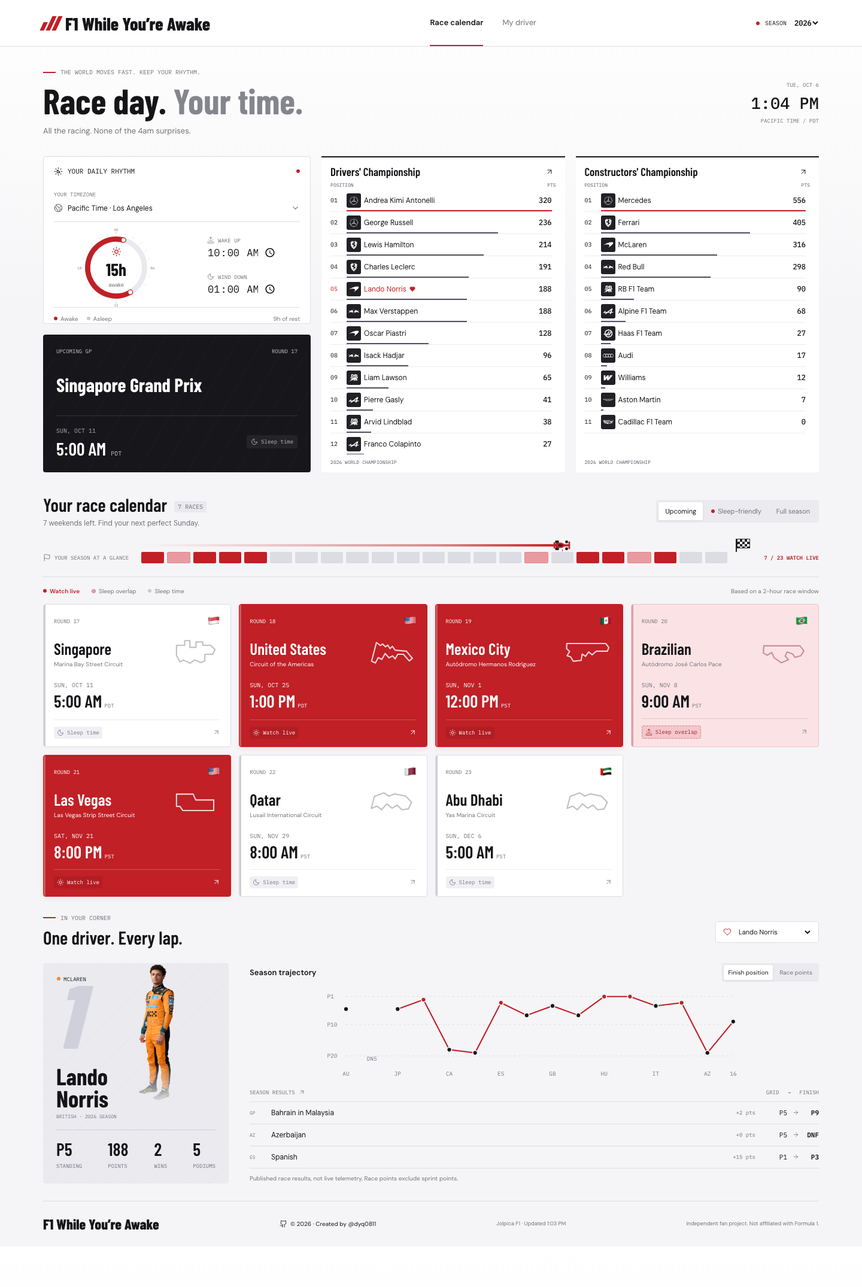
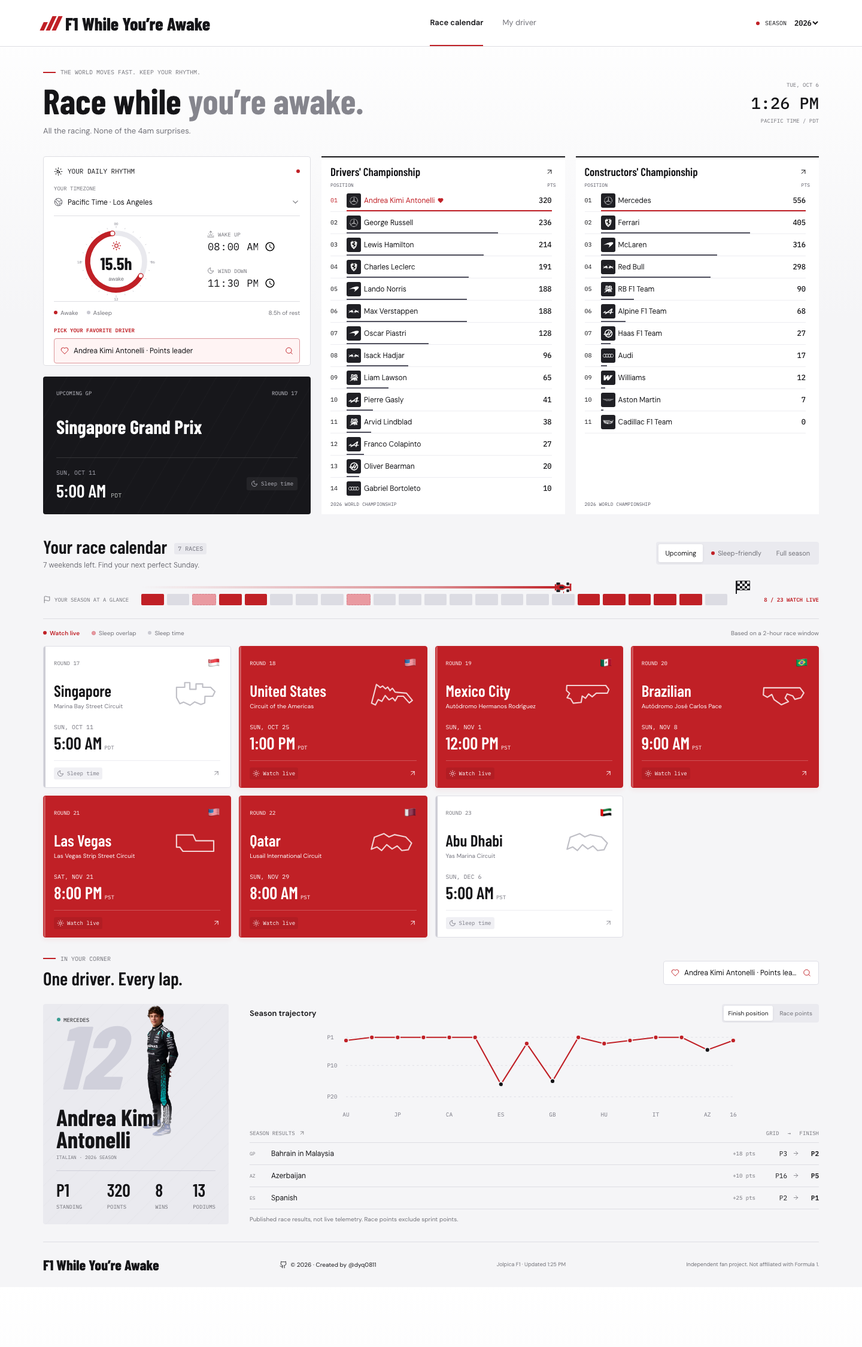
Add files via upload

diff --git a/app.js b/app.js
@@ -3,7 +3,8 @@ const API = 'https://api.jolpi.ca/ergast/f1/';
 const STORE = 'apex-preferences-v1';
 let saved = {};
 try { saved = JSON.parse(localStorage.getItem(STORE) || '{}'); } catch {}
-const state = { season: ['2026', '2025', '2024'].includes(saved.season) ? saved.season : '2026', timezone: saved.timezone || 'America/Los_Angeles', wake: saved.wake || '10:00', sleep: saved.sleep || '01:00', driver: saved.driver || 'norris', filter: 'upcoming', chart: 'position', races: [], standings: [], constructorStandings: [], results: [], source: '', driverToken: 0, seasonToken: 0 };
+const state = { season: ['2026', '2025', '2024'].includes(saved.season) ? saved.season : '2026', timezone: saved.timezone || 'America/Los_Angeles', wake: saved.wake || '08:00', sleep: saved.sleep || '23:30', driver: saved.driver || '', driverChosen: saved.driverChosen === true, filter: 'upcoming', chart: 'position', races: [], drivers: [], standings: [], constructorStandings: [], results: [], source: '', driverToken: 0, seasonToken: 0 };
+let standingsUpdatedAt = 0, refreshingStandings = false;
 const timezoneNames = { 'America/Los_Angeles': 'Pacific Time · Los Angeles', 'America/New_York': 'Eastern Time · New York', 'America/Chicago': 'Central Time · Chicago', 'America/Denver': 'Mountain Time · Denver', 'Europe/London': 'London · United Kingdom', 'Europe/Paris': 'Paris · France', 'Asia/Singapore': 'Singapore', 'Asia/Tokyo': 'Tokyo · Japan', 'Australia/Sydney': 'Sydney · Australia', 'Asia/Kolkata': 'India · Kolkata', 'UTC': 'Coordinated Universal Time' };
 const countries = { Australia: 'AU', China: 'CN', Japan: 'JP', USA: 'US', Canada: 'CA', Monaco: 'MC', Spain: 'ES', Austria: 'AT', UK: 'GB', Belgium: 'BE', Hungary: 'HU', Netherlands: 'NL', Italy: 'IT', Azerbaijan: 'AZ', Singapore: 'SG', Mexico: 'MX', Brazil: 'BR', Qatar: 'QA', UAE: 'AE', Bahrain: 'BH', 'Saudi Arabia': 'SA' };
 const tracks = {
@@ -20,7 +21,7 @@ const resultRow = (race) => { const result = race.Results[0]; return `<button cl
 const icons = () => globalThis.lucide?.createIcons();
 const escapeHTML = (value) => String(value ?? '').replace(/[&<>"']/g, (char) => ({ '&': '&amp;', '<': '&lt;', '>': '&gt;', '"': '&quot;', "'": '&#39;' })[char]);
 const minutes = (value) => { const [hour, minute] = value.split(':').map(Number); return hour * 60 + minute; };
-const persist = () => { try { localStorage.setItem(STORE, JSON.stringify({ season: state.season, timezone: state.timezone, wake: state.wake, sleep: state.sleep, driver: state.driver })); } catch {} };
+const persist = () => { try { localStorage.setItem(STORE, JSON.stringify({ season: state.season, timezone: state.timezone, wake: state.wake, sleep: state.sleep, driver: state.driver, driverChosen: state.driverChosen })); } catch {} };
 const format = (date, options) => new Intl.DateTimeFormat('en-US', { timeZone: state.timezone, ...options }).format(date);
 const raceDate = (race) => new Date(`${race.date}T${race.time || '12:00:00Z'}`);
 const timeText = (date) => format(date, { hour: 'numeric', minute: '2-digit', hour12: true });
@@ -43,7 +44,7 @@ const flag = (country) => { const code = countries[country]; return code ? [...c
 const shortName = (race) => race.raceName.replace(' Grand Prix', '').replace('United States', 'United States').replace('São Paulo', 'São Paulo');
 const track = (race, className) => `<svg class="${className}" viewBox="0 0 210 135" aria-label="${escapeHTML(race.Circuit.circuitName)} circuit illustration" role="img"><path d="${tracks[race.Circuit.circuitId] || tracks.default}"/>${className === 'hero-track' ? `<path class="track-highlight" d="${tracks[race.Circuit.circuitId] || tracks.default}"/>` : ''}</svg>`;
 async function getData(path) {
-  const response = await fetch(`${API}${path}${path.includes('?') ? '&' : '?'}limit=100`, { signal: AbortSignal.timeout(15000) });
+  const response = await fetch(`${API}${path}${path.includes('?') ? '&' : '?'}limit=100`, { signal: AbortSignal.timeout(15000), cache: 'no-store' });
   if (!response.ok) throw new Error(`F1 feed returned ${response.status}`);
   return (await response.json()).MRData;
 }
@@ -186,6 +187,8 @@ async function loadDriver() {
 async function loadSeason() {
   const token = ++state.seasonToken, season = state.season;
   ++state.driverToken;
+  document.querySelectorAll('.driver-search-picker').forEach(closeDriverPicker);
+  document.querySelectorAll('.driver-search-input').forEach((input) => { input.disabled = true; input.value = ''; });
   state.races = []; state.standings = []; state.constructorStandings = []; state.results = [];
   $('#constructor-standings').innerHTML = '<div class="loading">Loading standings...</div>';
   $('#championship-drivers').innerHTML = '<div class="loading">Loading standings...</div>';
@@ -204,10 +207,11 @@ async function loadSeason() {
     if (!drivers.length) { try { const data = await getData(`${season}/drivers.json`); drivers = data.DriverTable.Drivers; } catch {} }
     if (token !== state.seasonToken) return;
     if (drivers.length) {
-      if (!drivers.some((driver) => driver.driverId === state.driver)) state.driver = drivers[0].driverId;
-      $('#driver-select').innerHTML = drivers.map((driver) => `<option value="${escapeHTML(driver.driverId)}">${escapeHTML(driver.givenName)} ${escapeHTML(driver.familyName)}</option>`).join('');
-      $('#driver-select').value = state.driver;
+      state.drivers = drivers;
+      if (!state.driverChosen || !drivers.some((driver) => driver.driverId === state.driver)) state.driver = pointsLeader()?.Driver.driverId || drivers[0].driverId;
+      syncDriverPickers();
     }
+    standingsUpdatedAt = Date.now();
     $('#data-status').textContent = `Jolpica F1 · Updated ${timeText(new Date())}`;
     renderSchedule(); renderChampionships(); persist(); await loadDriver();
   } catch {
@@ -296,19 +300,116 @@ $('#timezone-options').addEventListener('pointerdown', (event) => { if (event.ta
 $('#timezone-options').addEventListener('click', (event) => { const option = event.target.closest('[data-zone]'); if (option) chooseTimezone(option.dataset.zone); });
 $('.timezone-field').addEventListener('click', () => { if ($('#timezone-menu').hidden) { $('#timezone').focus(); $('#timezone-menu').hidden = false; $('#timezone').setAttribute('aria-expanded', 'true'); $('#timezone').select(); renderTimezoneOptions(); } });
 for (const name of ['wake', 'sleep']) {
-  if (!/^([01]\d|2[0-3]):[0-5]\d$/.test(state[name])) state[name] = name === 'wake' ? '10:00' : '01:00';
+  if (!/^([01]\d|2[0-3]):[0-5]\d$/.test(state[name])) state[name] = name === 'wake' ? '08:00' : '23:30';
   $(`#${name}`).value = state[name];
   $(`#${name}`).addEventListener('input', (event) => { if (!event.target.value) return; state[name] = event.target.value; persist(); renderSchedule(); });
 }
 $('#season').addEventListener('change', (event) => { state.season = event.target.value; persist(); loadSeason(); });
-$('#driver-select').addEventListener('change', (event) => { state.driver = event.target.value; persist(); renderChampionships(); loadDriver(); });
+function pointsLeader() { return state.standings.reduce((highest, standing) => !highest || Number(standing.points) > Number(highest.points) ? standing : highest, null); }
+function selectedDriverName() { const driver = state.drivers.find((item) => item.driverId === state.driver); return driver ? `${driver.givenName} ${driver.familyName}` : ''; }
+function driverPickerValue() { const name = selectedDriverName(); return name && !state.driverChosen ? `${name} · Points leader` : name; }
+function closeDriverPicker(picker) {
+  const menu = picker.querySelector('.driver-search-menu');
+  if (menu.matches(':popover-open')) menu.hidePopover();
+  menu.hidden = true;
+  const input = picker.querySelector('.driver-search-input');
+  input.setAttribute('aria-expanded', 'false'); input.removeAttribute('aria-activedescendant'); input.value = driverPickerValue();
+}
+function syncDriverPickers() {
+  document.querySelectorAll('.driver-search-picker').forEach((picker) => {
+    const input = picker.querySelector('.driver-search-input');
+    input.disabled = !state.drivers.length;
+    if (picker.querySelector('.driver-search-menu').hidden) input.value = driverPickerValue();
+  });
+}
+function chooseDriver(id) {
+  if (id === 'leader') { state.driverChosen = false; state.driver = pointsLeader()?.Driver.driverId || state.drivers[0]?.driverId || ''; }
+  else { if (!state.drivers.some((driver) => driver.driverId === id)) return; state.driver = id; state.driverChosen = true; }
+  document.querySelectorAll('.driver-search-picker').forEach(closeDriverPicker);
+  syncDriverPickers(); persist(); renderChampionships(); loadDriver();
+}
+document.querySelectorAll('.driver-search-picker').forEach((picker) => {
+  const input = picker.querySelector('.driver-search-input'), menu = picker.querySelector('.driver-search-menu'), list = picker.querySelector('[role="listbox"]');
+  let matches = [], activeIndex = -1;
+  function renderOptions(query = '') {
+    const terms = query.toLowerCase().normalize('NFD').replace(/[\u0300-\u036f]/g, '').trim().split(/\s+/).filter(Boolean);
+    const driverChoices = state.drivers.map((driver) => { const standing = state.standings.find((item) => item.Driver.driverId === driver.driverId); return { id: driver.driverId, name: `${driver.givenName} ${driver.familyName}`, detail: `${standing?.Constructors?.[0]?.name || driver.nationality}${standing ? ` · ${standing.points} pts` : ''}`, code: driver.code || '' }; });
+    const choices = [{ id: 'leader', name: 'Follow points leader', detail: pointsLeader() ? `${selectedLeaderName()} · Automatic` : 'Automatic when standings are available', code: 'default auto' }, ...driverChoices];
+    matches = choices.filter((choice) => { const text = `${choice.name} ${choice.detail} ${choice.code}`.toLowerCase().normalize('NFD').replace(/[\u0300-\u036f]/g, ''); return terms.every((term) => text.includes(term)); });
+    activeIndex = -1; input.removeAttribute('aria-activedescendant');
+    list.innerHTML = matches.map((choice, index) => `<li id="${input.id}-option-${index}" role="option" data-driver="${escapeHTML(choice.id)}" aria-selected="${choice.id === 'leader' ? !state.driverChosen : state.driverChosen && choice.id === state.driver}"><span>${escapeHTML(choice.name)}</span><small>${escapeHTML(choice.detail)}</small></li>`).join('');
+    picker.querySelector('.driver-search-status').textContent = matches.length ? `${matches.length} choices` : 'No matching drivers';
+  }
+  function positionMenu() {
+    if (menu.hidden) return;
+    const viewport = window.visualViewport;
+    const viewportLeft = viewport?.offsetLeft || 0, viewportTop = viewport?.offsetTop || 0;
+    const viewportWidth = viewport?.width || window.innerWidth, viewportHeight = viewport?.height || window.innerHeight;
+    const anchor = picker.querySelector('.driver-search-field').getBoundingClientRect();
+    const width = Math.min(Math.max(anchor.width, 280), viewportWidth - 24);
+    menu.style.width = `${width}px`;
+    menu.style.left = `${Math.max(viewportLeft + 12, Math.min(anchor.left, viewportLeft + viewportWidth - width - 12))}px`;
+    const above = anchor.top - viewportTop - 12, below = viewportTop + viewportHeight - anchor.bottom - 12;
+    const opensAbove = below < 292 && above > below;
+    const available = Math.max(0, (opensAbove ? above : below) - 6);
+    const footerHeight = picker.querySelector('.driver-search-status').getBoundingClientRect().height;
+    list.style.maxHeight = `${Math.max(0, Math.min(260, available - footerHeight - 2))}px`;
+    const height = menu.getBoundingClientRect().height;
+    menu.style.top = `${Math.max(viewportTop + 12, Math.min(opensAbove ? anchor.top - height - 6 : anchor.bottom + 6, viewportTop + viewportHeight - height - 12))}px`;
+  }
+  function open() {
+    if (input.disabled) return;
+    menu.hidden = false; if (!menu.matches(':popover-open')) menu.showPopover();
+    input.setAttribute('aria-expanded', 'true'); input.select(); renderOptions(); positionMenu();
+  }
+  input.addEventListener('focus', open);
+  input.addEventListener('click', () => { if (menu.hidden) open(); });
+  input.addEventListener('input', () => { menu.hidden = false; if (!menu.matches(':popover-open')) menu.showPopover(); input.setAttribute('aria-expanded', 'true'); renderOptions(input.value); positionMenu(); });
+  input.addEventListener('blur', () => closeDriverPicker(picker));
+  input.addEventListener('keydown', (event) => {
+    if (event.key === 'Escape' || event.key === 'Tab') { closeDriverPicker(picker); return; }
+    if (event.key === 'ArrowDown' || event.key === 'ArrowUp') {
+      event.preventDefault(); if (menu.hidden) open(); if (!matches.length) return;
+      activeIndex = event.key === 'ArrowDown' ? (activeIndex + 1) % matches.length : activeIndex <= 0 ? matches.length - 1 : activeIndex - 1;
+      list.querySelectorAll('[role="option"]').forEach((option, index) => option.classList.toggle('highlighted', index === activeIndex));
+      const option = list.children[activeIndex]; input.setAttribute('aria-activedescendant', option.id); option.scrollIntoView({ block: 'nearest' });
+    }
+    if (event.key === 'Enter' && !menu.hidden) { event.preventDefault(); if (activeIndex >= 0) chooseDriver(matches[activeIndex].id); else if (matches.length === 1) chooseDriver(matches[0].id); }
+  });
+  list.addEventListener('pointerdown', (event) => { if (event.target.closest('[data-driver]')) event.preventDefault(); });
+  list.addEventListener('click', (event) => { const option = event.target.closest('[data-driver]'); if (option) chooseDriver(option.dataset.driver); });
+  window.addEventListener('resize', positionMenu);
+  window.addEventListener('scroll', positionMenu, true);
+  window.visualViewport?.addEventListener('resize', positionMenu);
+  window.visualViewport?.addEventListener('scroll', positionMenu);
+});
+function selectedLeaderName() { const driver = pointsLeader()?.Driver; return driver ? `${driver.givenName} ${driver.familyName}` : ''; }
+async function refreshStandings() {
+  if (refreshingStandings || document.hidden || !state.races.length) return;
+  const season = state.season, token = state.seasonToken;
+  refreshingStandings = true;
+  try {
+    const [drivers, constructors] = await Promise.all([getData(`${season}/driverStandings.json`), getData(`${season}/constructorStandings.json`).catch(() => null)]);
+    if (token !== state.seasonToken || season !== state.season) return;
+    const standings = drivers.StandingsTable.StandingsLists[0]?.DriverStandings;
+    if (!standings?.length) return;
+    state.standings = standings; state.drivers = standings.map((standing) => standing.Driver);
+    const teams = constructors?.StandingsTable.StandingsLists[0]?.ConstructorStandings;
+    if (teams) state.constructorStandings = teams;
+    if (!state.driverChosen) state.driver = pointsLeader().Driver.driverId;
+    standingsUpdatedAt = Date.now(); syncDriverPickers(); persist(); renderChampionships(); await loadDriver();
+    $('#data-status').textContent = `Jolpica F1 · Updated ${timeText(new Date())}`;
+  } catch {} finally { refreshingStandings = false; }
+}
+setInterval(refreshStandings, 5 * 60 * 1000);
+document.addEventListener('visibilitychange', () => { if (!document.hidden && Date.now() - standingsUpdatedAt >= 5 * 60 * 1000) refreshStandings(); });
 document.querySelectorAll('[data-standings]').forEach((button) => button.addEventListener('click', () => showStandings(button.dataset.standings)));
 document.addEventListener('error', (event) => {
   if (event.target.matches?.('.team-logo img')) { event.target.hidden = true; event.target.nextElementSibling.hidden = false; }
 }, true);
 $('#all-results').addEventListener('click', () => {
   $('#dialog-kicker').textContent = `DRIVER RESULTS / ${state.season}`;
-  $('#dialog-title').textContent = $('#driver-select').selectedOptions[0]?.textContent || 'Season results';
+  $('#dialog-title').textContent = selectedDriverName() || 'Season results';
   $('#dialog-content').innerHTML = `<p class="dialog-note">Grand Prix results · Race points exclude sprint points</p>${state.results.length ? state.results.slice().reverse().map(resultRow).join('') : '<div class="empty">No published results available.</div>'}`;
   $('#race-dialog').showModal(); icons();
 });

diff --git a/index.html b/index.html
@@ -19,12 +19,13 @@
     <div class="season-select"><span class="status-dot"></span><label for="season">SEASON</label><select id="season"><option>2026</option><option>2025</option><option>2024</option></select></div>
   </header>
   <main>
-    <section class="page-heading"><div><div class="eyebrow"><span class="red-line"></span> THE WORLD MOVES FAST. KEEP YOUR RHYTHM.</div><h1>Race day. <span>Your time.</span></h1><p>All the racing. None of the 4am surprises.</p></div><div class="local-clock"><span id="today"></span><strong id="clock">--:--</strong><span id="clock-zone">PACIFIC TIME</span></div></section>
+    <section class="page-heading"><div><div class="eyebrow"><span class="red-line"></span> THE WORLD MOVES FAST. KEEP YOUR RHYTHM.</div><h1>Race while <span>you&rsquo;re awake.</span></h1><p>All the racing. None of the 4am surprises.</p></div><div class="local-clock"><span id="today"></span><strong id="clock">--:--</strong><span id="clock-zone">PACIFIC TIME</span></div></section>
     <section class="dashboard-top">
       <aside class="rhythm"><div class="section-kicker"><span><i data-lucide="sun-moon"></i> YOUR DAILY RHYTHM</span><span class="tiny-dot"></span></div>
         <div class="timezone-picker"><label class="field-label" for="timezone">YOUR TIMEZONE</label><div class="timezone-field"><i data-lucide="globe-2"></i><input id="timezone" type="text" role="combobox" aria-label="Timezone" aria-autocomplete="list" aria-expanded="false" aria-controls="timezone-options" autocomplete="off" spellcheck="false" placeholder="Search city or timezone"><i data-lucide="chevron-down"></i></div><div id="timezone-menu" class="timezone-menu" hidden><ul id="timezone-options" role="listbox" aria-label="Timezones"></ul><div id="timezone-search-status" class="timezone-search-status" role="status"></div></div></div>
-        <div class="rhythm-body"><div class="dial-wrap"><svg id="sleep-dial" viewBox="0 0 200 200" role="img" aria-label="24-hour waking and sleep schedule"></svg><div class="dial-center"><i data-lucide="sun"></i><strong id="awake-hours">15h</strong><span>awake</span></div></div><div class="sleep-inputs"><label for="wake"><span><i data-lucide="sunrise"></i> WAKE UP</span><input id="wake" type="time" value="10:00" required></label><label for="sleep"><span><i data-lucide="moon"></i> WIND DOWN</span><input id="sleep" type="time" value="01:00" required></label></div></div>
-        <div class="rhythm-bottom"><span class="legend-dot awake"></span> Awake <span class="legend-dot asleep"></span> Asleep <span id="sleep-hours">9h of rest</span></div><p class="schedule-error" id="schedule-error" role="status"></p>
+        <div class="rhythm-body"><div class="dial-wrap"><svg id="sleep-dial" viewBox="0 0 200 200" role="img" aria-label="24-hour waking and sleep schedule"></svg><div class="dial-center"><i data-lucide="sun"></i><strong id="awake-hours">15.5h</strong><span>awake</span></div></div><div class="sleep-inputs"><label for="wake"><span><i data-lucide="sunrise"></i> WAKE UP</span><input id="wake" type="time" value="08:00" required></label><label for="sleep"><span><i data-lucide="moon"></i> WIND DOWN</span><input id="sleep" type="time" value="23:30" required></label></div></div>
+        <div class="rhythm-bottom"><span class="legend-dot awake"></span> Awake <span class="legend-dot asleep"></span> Asleep <span id="sleep-hours">8.5h of rest</span></div><p class="schedule-error" id="schedule-error" role="status"></p>
+        <div class="rhythm-driver driver-search-picker"><label class="field-label" for="rhythm-driver-select">PICK YOUR FAVORITE DRIVER</label><div class="driver-search-field"><i data-lucide="heart"></i><input id="rhythm-driver-select" class="driver-search-input" type="text" role="combobox" aria-label="Pick your favorite driver" aria-autocomplete="list" aria-expanded="false" aria-controls="rhythm-driver-options" placeholder="Search drivers or teams" autocomplete="off" spellcheck="false" disabled><i data-lucide="search"></i></div><div class="driver-search-menu" popover="manual" hidden><ul id="rhythm-driver-options" role="listbox" aria-label="Favorite driver choices"></ul><div class="driver-search-status" role="status"></div></div></div>
       </aside>
       <div class="next-race" id="next-race"><div class="loading">Finding your next lights out...</div></div>
       <section class="championship-board drivers-board" aria-labelledby="drivers-title"><div class="championship-heading"><h2 id="drivers-title">Drivers' Championship</h2><button class="icon-button" data-standings="drivers" title="Full drivers' standings" aria-label="View full drivers' standings"><i data-lucide="arrow-up-right"></i></button></div><div id="championship-drivers"><div class="loading">Loading standings...</div></div></section>
@@ -35,7 +36,7 @@
       <div class="calendar-legend"><span><b class="legend-dot awake"></b> Watch live</span><span><b class="legend-dot stretch"></b> Sleep overlap</span><span><b class="legend-dot asleep"></b> Sleep time</span><small>Based on a 2-hour race window</small></div>
       <div class="race-grid" id="race-grid" aria-live="polite"><div class="loading">Loading the grid...</div></div>
     </section>
-    <section id="driver" class="driver-section"><div class="section-heading"><div><div class="eyebrow"><span class="red-line"></span> IN YOUR CORNER</div><h2>One driver. Every lap.</h2></div><div class="driver-picker"><i data-lucide="heart"></i><select id="driver-select" aria-label="Favorite driver"><option value="norris">Lando Norris</option></select></div></div>
+    <section id="driver" class="driver-section"><div class="section-heading"><div><div class="eyebrow"><span class="red-line"></span> IN YOUR CORNER</div><h2>One driver. Every lap.</h2></div><div class="driver-picker driver-search-picker"><div class="driver-search-field"><i data-lucide="heart"></i><input id="driver-select" class="driver-search-input" type="text" role="combobox" aria-label="Favorite driver" aria-autocomplete="list" aria-expanded="false" aria-controls="driver-options" placeholder="Search drivers or teams" autocomplete="off" spellcheck="false" disabled><i data-lucide="search"></i></div><div class="driver-search-menu" popover="manual" hidden><ul id="driver-options" role="listbox" aria-label="Favorite driver choices"></ul><div class="driver-search-status" role="status"></div></div></div></div>
       <div class="driver-layout"><div id="driver-profile" class="driver-profile"><div class="loading">Loading your driver...</div></div><div class="driver-performance"><div class="performance-heading"><h3>Season trajectory</h3><div class="segmented compact" aria-label="Chart metric"><button data-chart="position" class="selected" aria-pressed="true">Finish position</button><button data-chart="points" aria-pressed="false">Race points</button></div></div><div id="driver-chart" class="driver-chart"></div><div class="results-heading"><button id="all-results" title="View all race results">SEASON RESULTS <i data-lucide="arrow-up-right"></i></button><span>GRID <span class="result-arrow">→</span> FINISH</span></div><div id="driver-results"></div><p class="data-note">Published race results, not live telemetry. Race points exclude sprint points.</p></div></div>
     </section>
     <footer><a class="brand small" href="#"><span class="brand-name">F1 While You&rsquo;re Awake</span></a><a class="footer-github" href="https://github.com/dyq0811" target="_blank" rel="noopener noreferrer"><i data-lucide="github"></i>&copy; 2026 &middot; Created by @dyq0811</a><span id="data-status" role="status">Connecting to Jolpica F1...</span><span>Independent fan project. Not affiliated with Formula 1.</span></footer>

diff --git a/modern.css b/modern.css
@@ -34,7 +34,7 @@ nav a.active { font-weight: 600; }
 .local-clock strong { font-size: 27px; }
 .status-dot, .tiny-dot { background: var(--red); }
 
-.dashboard-top { grid-template-columns: minmax(300px, 1.1fr) minmax(0, 1fr) minmax(0, 1fr); grid-template-rows: 280px 230px; grid-template-areas: "rhythm drivers constructors" "race drivers constructors"; gap: 18px; }
+.dashboard-top { grid-template-columns: minmax(300px, 1.1fr) minmax(0, 1fr) minmax(0, 1fr); grid-template-rows: 350px 230px; grid-template-areas: "rhythm drivers constructors" "race drivers constructors"; gap: 18px; }
 .dashboard-top .next-race { grid-area: race; min-height: 230px; padding: 22px; }
 .dashboard-top .next-race .kicker { justify-content: space-between; font-size: 9px; }
 .dashboard-top .next-race h2 { font-size: 32px; line-height: 1.1; max-width: 100%; margin: 14px 0; }
@@ -42,6 +42,7 @@ nav a.active { font-weight: 600; }
 .dashboard-top .next-recommend { max-width: none; }
 .dashboard-top .next-time strong { font-size: 30px; }
 .dashboard-top .rhythm { grid-area: rhythm; padding: 17px; }
+.dashboard-top .rhythm .section-kicker { margin-bottom: 10px; }
 .dashboard-top .dial-wrap { width: 132px; height: 132px; }
 .dashboard-top .rhythm-body { gap: 10px; justify-content: space-around; }
 .championship-board { padding: 12px 15px; background: #fff; border-top: 2px solid var(--ink); min-width: 0; flex: 1; }
@@ -120,6 +121,24 @@ nav a.active { font-weight: 600; }
 .dial-center svg { color: var(--red); }
 .dial-center strong { font-weight: 700; }
 .rhythm-bottom { font-size: 10px; }
+.rhythm-driver { margin-top: 12px; }
+.rhythm-driver > .field-label { color: var(--red); font-weight: 600; }
+.driver-search-picker { position: relative; }
+.driver-search-field { display: flex; align-items: center; gap: 8px; width: 100%; min-width: 0; }
+.rhythm-driver .driver-search-field { margin-top: 6px; padding: 10px; background: #fff4f4; border: 1px solid #dc969a; border-radius: 4px; }
+.driver-search-field > svg { width: 14px; height: 14px; flex-shrink: 0; color: var(--red); }
+.driver-search-input { width: 100%; min-width: 0; padding: 2px 0; border: 0; background: transparent; font-size: 12px; text-overflow: ellipsis; }
+.driver-search-input:disabled { color: var(--muted); cursor: wait; }
+.driver-section .driver-picker { width: 260px; max-width: 45%; }
+.driver-search-menu { position: fixed; inset: auto; margin: 0; z-index: 25; background: #fff; border: 1px solid var(--line); border-radius: 4px; box-shadow: 0 12px 28px #15151818; }
+.driver-search-menu[hidden] { display: none; }
+.driver-search-menu ul { list-style: none; padding: 4px; margin: 0; max-height: 260px; overflow-y: auto; overscroll-behavior: contain; }
+.driver-search-menu li { display: flex; flex-direction: column; gap: 4px; padding: 10px; border-radius: 3px; cursor: pointer; }
+.driver-search-menu li:hover, .driver-search-menu li.highlighted, .driver-search-menu li[aria-selected="true"] { background: #fff0f0; }
+.driver-search-menu li > span { font-size: 12px; color: var(--ink); overflow-wrap: anywhere; }
+.driver-search-menu li[aria-selected="true"] > span { color: var(--red); font-weight: 600; }
+.driver-search-menu li small { font: 9px var(--mono); color: var(--muted); overflow-wrap: anywhere; }
+.driver-search-status { padding: 9px 12px; border-top: 1px solid var(--line); font: 9px var(--mono); color: var(--muted); }
 #sleep-dial > circle:first-child { stroke: #e9e9ee; }
 #sleep-dial > circle:nth-child(2) { stroke: var(--red); }
 #sleep-dial > circle:nth-child(n+3) { stroke: var(--red); fill: #fff; }

diff --git a/README.md b/README.md
@@ -2,6 +2,14 @@
 
 Formula 1, mapped to your day. F1 While You're Awake helps you find races that fit your timezone and sleep schedule, follow your favorite driver, and track both world championships.
 
+Visit **[f1-awake.0811dingy.workers.dev](https://f1-awake.0811dingy.workers.dev)** in your browser.
+
+## Why I built this
+
+F1's timezone switch is handy, but it doesn't know I'm a night owl. I still had to check every race to answer the real question: **will I actually be awake for this?** I'm here for lights out, not a 4am alarm.
+
+I'm also more driver-loyal than team-loyal. My favorites can change garages; I'm still cheering for them. So I built a race calendar around my sleep schedule, with a driver view that follows the person, not the paint job.
+
 ## Preview
 
 ![F1 While You're Awake dashboard showing sleep settings, the next Grand Prix, championship standings, a timezone-aware race calendar, and driver results](preview.png)
@@ -17,7 +25,9 @@ Preview captured on October 6, 2026. Race schedules and standings change as the 
 - Weekend details for practice, qualifying, sprints, and the Grand Prix when published.
 - A season overview with a race-car progress marker and fading red trail.
 - Scrollable Drivers' and Constructors' Championship standings with team logos and points.
-- Favorite-driver selection, championship position, wins, podiums, and season charts.
+- Searchable favorite-driver pickers in the daily rhythm panel and driver view, with name, team, and driver-code search plus keyboard navigation.
+- New visitors start with the championship leader by points; selecting a driver saves that favorite instead of automatically switching back to the leader.
+- Driver championship position, wins, podiums, and season charts.
 - Full Grand Prix results and published lap-by-lap position traces.
 - Responsive desktop/mobile layout and preferences saved in your browser.
 - Season selection for 2024, 2025, and 2026.
@@ -32,9 +42,7 @@ Preview captured on October 6, 2026. Race schedules and standings change as the 
 
 Grand Prix estimates use a two-hour window. Actual races can last longer because of delays or red flags. Weekend sessions use their usual scheduled duration. Unconfirmed start times are shown as **Time TBC** rather than being classified as confirmed watchable races.
 
-## Visit
-
-Visit **[f1-awake.0811dingy.workers.dev](https://f1-awake.0811dingy.workers.dev)** in your browser.
+## Settings
 
 An internet connection is required for F1 data, team logos, driver portraits, fonts, and icons.
 
@@ -43,12 +51,16 @@ An internet connection is required for F1 data, team logos, driver portraits, fo
 | Setting | Default |
 | --- | --- |
 | Timezone | Pacific Time / `America/Los_Angeles` |
-| Wake up | 10:00 AM |
-| Wind down | 1:00 AM |
-| Favorite driver | Lando Norris |
+| Wake up | 8:00 AM |
+| Wind down | 11:30 PM |
+| Favorite driver | Driver with the most championship points in the selected season |
 | Season | 2026 |
 
 Settings are saved in browser local storage and are specific to each visitor and site origin. They are not uploaded to a user database.
+
+The sleep schedule defaults to 11:30 PM-8:00 AM on a first visit. Once you change either time, your saved values are used on future visits instead of resetting to the defaults.
+
+A saved favorite takes precedence over the default leader, including after standings updates and future visits. Until a favorite is explicitly chosen, the default follows the selected season's latest points leader. Choose **Follow points leader** in the picker to explicitly return to automatic mode. If standings are unavailable, the first available driver is used.
 
 ## Project files
 
@@ -71,7 +83,7 @@ f1-afterhours/
 
 Results and lap progress are published historical data, **not live telemetry**. Championship totals include sprint points; the Grand Prix results and race-points chart exclude sprint points. Circuit drawings are stylized illustrations, not precise track maps.
 
-Data is fetched when the page loads or the selected season/driver changes; standings do not automatically refresh in the background. Reload the page to request updated data. External services may impose rate limits or become unavailable; the app displays unavailable-data states rather than fabricating results.
+Data is fetched when the page loads or the selected season/driver changes. While the page is visible, championship standings are refreshed every five minutes; returning to a stale tab also requests an update. Automatic driver selection follows the refreshed points leader, but a saved favorite is never replaced by a new leader. Updates depend on when the public feed publishes new results. External services may impose rate limits or become unavailable; the app retains existing standings when a refresh fails.
 
 ## Attribution and rights
 
